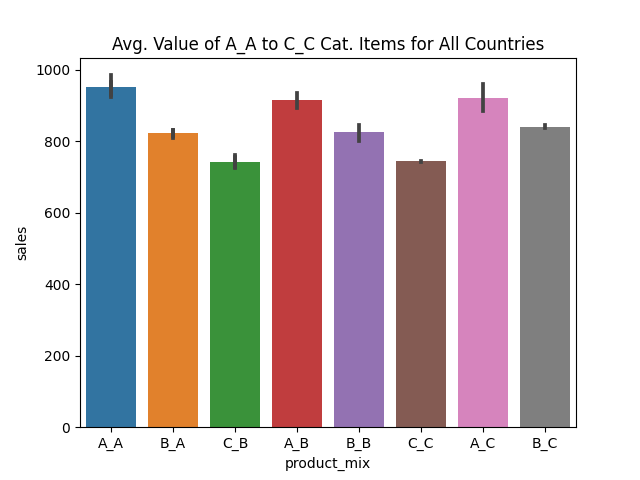
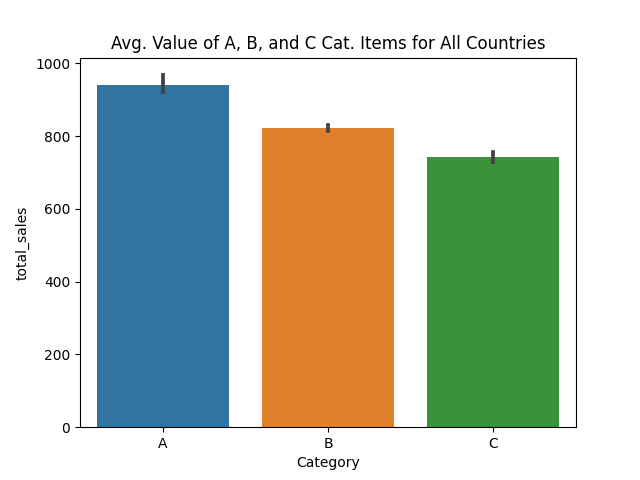
aiflow_test_2

diff --git a/main.py b/main.py
@@ -1,9 +1,77 @@
 import os
-import openindirfile
+from typing import Any
+import pandas as pd
+import numpy as np
+import seaborn as sns
+import matplotlib.pyplot as plt
+import abc_re
+
+def to_open_file(in_dir: str , out_dir: str, paramjson: dict = None, stoplist: list = None, wantlist: list = None):
+    indir_file = os.listdir(in_dir)
+    if wantlist:
+        indir_file = wantlist
+    if stoplist:
+        for i in stoplist:
+            indir_file.remove(i)
+        
+    document = []
+    for i, file_name in enumerate(indir_file):
+        to_do_logic(in_dir=in_dir, out_dir=out_dir, indir_file=file_name)
+
+def to_do_logic(
+    param_json: dict = None,
+    ex_model_param: dict = None,
+    in_dir: str = None,
+    out_dir: str = None,
+    ex_out_dir: str = None,
+    is_training: bool = False,
+    training_model_path: str = None,
+) -> Any: 
+    # print("far")
+    print(out_dir)
+    sales = pd.read_csv(f'{in_dir}{os.sep}sales_data_sample_utf8.csv')
+    sales = sales.drop_duplicates()
+    sales_clean = sales.copy()
+    grouped = sales_clean.groupby("PRODUCTCODE").agg(total_sales=('QUANTITYORDERED', np.sum), total_revenue=('SALES', np.sum)).reset_index()
+
+    
+    
+    abc = abc_re.ABC_BY_HO(grouped[['PRODUCTCODE', 'total_sales']])
+    
+    plt.figure(1)
+    sns.countplot(x = 'Category', data = abc).set(title = 'No. of A, B, and C Cat. Items for All Countries')
+    plt.savefig(f'{out_dir}{os.sep}No. of A, B, and C Cat. Items for All Countries.png')
+    
+    plt.figure(2)
+    sns.barplot(x = 'Category', y = 'total_sales', data = abc).set(title = 'Avg. Value of A, B, and C Cat. Items for All Countries')
+    plt.savefig(f'{out_dir}{os.sep}Avg. Value of A, B, and C Cat. Items for All Countries.png')
+    
+    mc_abc = abc_re.productmix(grouped['PRODUCTCODE'], grouped['total_sales'], grouped['total_revenue'])
+
+    plt.figure(3)
+    sns.countplot(x = 'product_mix', data = mc_abc).set(title = 'No. of A_A to C_C Cat. Items for All Countries')
+    plt.savefig(f'{out_dir}{os.sep}No. of A_A to C_C Cat. Items for All Countries.png')
+
+    plt.figure(4)
+    sns.barplot(x = 'product_mix', y = 'sales', data = mc_abc).set(title = 'Avg. Value of A_A to C_C Cat. Items for All Countries')
+    plt.savefig(f'{out_dir}{os.sep}Avg. Value of A_A to C_C Cat. Items for All Countries.png')
+
+    plt.figure(5)
+    sns.barplot(x = 'product_mix', y = 'revenue', data = mc_abc).set(title = 'Total Revenue of A_A to C_C Cat. Items for All Countries')
+    plt.savefig(f'{out_dir}{os.sep}Total Revenue of A_A to C_C Cat. Items for All Countries.png')
+    
+    # result_data = abc.to_json(orient='records')
+    # result_data_mcabc = mc_abc.to_json(orient='records')
+    
+
+    abc.to_csv(f'{out_dir}/abc_single.csv', index = False, header=True)
+    mc_abc.to_csv(f'{out_dir}/abc_multi.csv', index = False, header=True)
+    
+    return None, None, {}, ["abc_multi.csv", "abc_single.csv", "No. of A, B, and C Cat. Items for All Countries.png", 'Avg. Value of A, B, and C Cat. Items for All Countries.png',"Avg. Value of A_A to C_C Cat. Items for All Countries.png", "No. of A_A to C_C Cat. Items for All Countries.png", "Total Revenue of A_A to C_C Cat. Items for All Countries.png"]
 
 
 
 if __name__ == "__main__":
-    openindirfile.to_open_file(in_dir=f'{os.getcwd()}{os.sep}indir',out_dir=f'{os.getcwd()}{os.sep}outdir')
+    to_do_logic(in_dir=f'{os.getcwd()}{os.sep}indir',out_dir=f'{os.getcwd()}{os.sep}outdir')
     
     

diff --git a/openindirfile.py b/openindirfile.py
@@ -13,14 +13,9 @@ def to_open_file(in_dir: str , out_dir: str, paramjson: dict = None, stoplist: l
         for i in stoplist:
             indir_file.remove(i)
         
-    #wantlist = ["a.csv", "b.csv"]
     document = []
     for i, file_name in enumerate(indir_file):
         to_do_logic(in_dir=in_dir, out_dir=out_dir, indir_file=file_name)
-        # if i == 0:
-        #     document = pd.read_csv(f'{in_dir}{os.sep}{file_name}')
-        # else:
-        #     document.append(pd.read_csv(f'{in_dir}{os.sep}{file_name}'))
         
 
 
@@ -37,16 +32,25 @@ def to_do_logic(in_dir: str , out_dir: str, indir_file: str, paramjson: dict = N
     
     abc = abc_re.ABC_BY_HO(grouped[['PRODUCTCODE', 'total_sales']])
     
+    plt.figure(1)
     sns.countplot(x = 'Category', data = abc).set(title = 'No. of A, B, and C Cat. Items for All Countries')
+    plt.savefig(f'{out_dir}{os.sep}No. of A, B, and C Cat. Items for All Countries.png')
+    
+    plt.figure(2)
     sns.barplot(x = 'Category', y = 'total_sales', data = abc).set(title = 'Avg. Value of A, B, and C Cat. Items for All Countries')
-    plt.savefig(f'{out_dir}/Avg. Value of A, B, and C Cat. Items for All Countries.png')
+    plt.savefig(f'{out_dir}{os.sep}Avg. Value of A, B, and C Cat. Items for All Countries.png')
     
     mc_abc = abc_re.productmix(grouped['PRODUCTCODE'], grouped['total_sales'], grouped['total_revenue'])
-    
+
+    plt.figure(3)
     sns.countplot(x = 'product_mix', data = mc_abc).set(title = 'No. of A_A to C_C Cat. Items for All Countries')
     plt.savefig(f'{out_dir}{os.sep}No. of A_A to C_C Cat. Items for All Countries.png')
+
+    plt.figure(4)
     sns.barplot(x = 'product_mix', y = 'sales', data = mc_abc).set(title = 'Avg. Value of A_A to C_C Cat. Items for All Countries')
-    plt.savefig(f'{out_dir}{os.sep}Avg. Value of A, B, and C Cat. Items for All Countries.png')
+    plt.savefig(f'{out_dir}{os.sep}Avg. Value of A_A to C_C Cat. Items for All Countries.png')
+
+    plt.figure(5)
     sns.barplot(x = 'product_mix', y = 'revenue', data = mc_abc).set(title = 'Total Revenue of A_A to C_C Cat. Items for All Countries')
     plt.savefig(f'{out_dir}{os.sep}Total Revenue of A_A to C_C Cat. Items for All Countries.png')
     
@@ -57,4 +61,4 @@ def to_do_logic(in_dir: str , out_dir: str, indir_file: str, paramjson: dict = N
     abc.to_csv(f'{out_dir}/abc_single.csv', index = False, header=True)
     mc_abc.to_csv(f'{out_dir}/abc_multi.csv', index = False, header=True)
     
-    return None
+    return None, None, {}, ["abc_multi.csv", "abc_single.csv", "No. of A, B, and C Cat. Items for All Countries", 'Avg. Value of A, B, and C Cat. Items for All Countries.png',"Avg. Value of A_A to C_C Cat. Items for All Countries.png", "No. of A_A to C_C Cat. Items for All Countries.png", "Total Revenue of A_A to C_C Cat. Items for All Countries.png"]

diff --git a/main_2.py b/main_2.py
@@ -1,0 +1,29 @@
+import os
+from typing import Any
+
+import openindirfile
+
+
+
+def to_do_logic(
+    param_json: dict = None,
+    ex_model_param: dict = None,
+    in_dir: str = None,
+    out_dir: str = None,
+    ex_out_dir: str = None,
+    is_training: bool = False,
+    training_model_path: str = None,
+) -> Any: 
+
+    accuracy_json, loss_json, output_params, files = openindirfile.to_open_file(
+        in_dir=in_dir,
+        out_dir=out_dir,
+        paramjson=param_json
+    )
+
+    return accuracy_json, loss_json, output_params, files
+
+if __name__ == "__main__":
+    openindirfile.to_open_file(in_dir=f'{os.getcwd()}{os.sep}indir',out_dir=f'{os.getcwd()}{os.sep}outdir')
+    
+    
